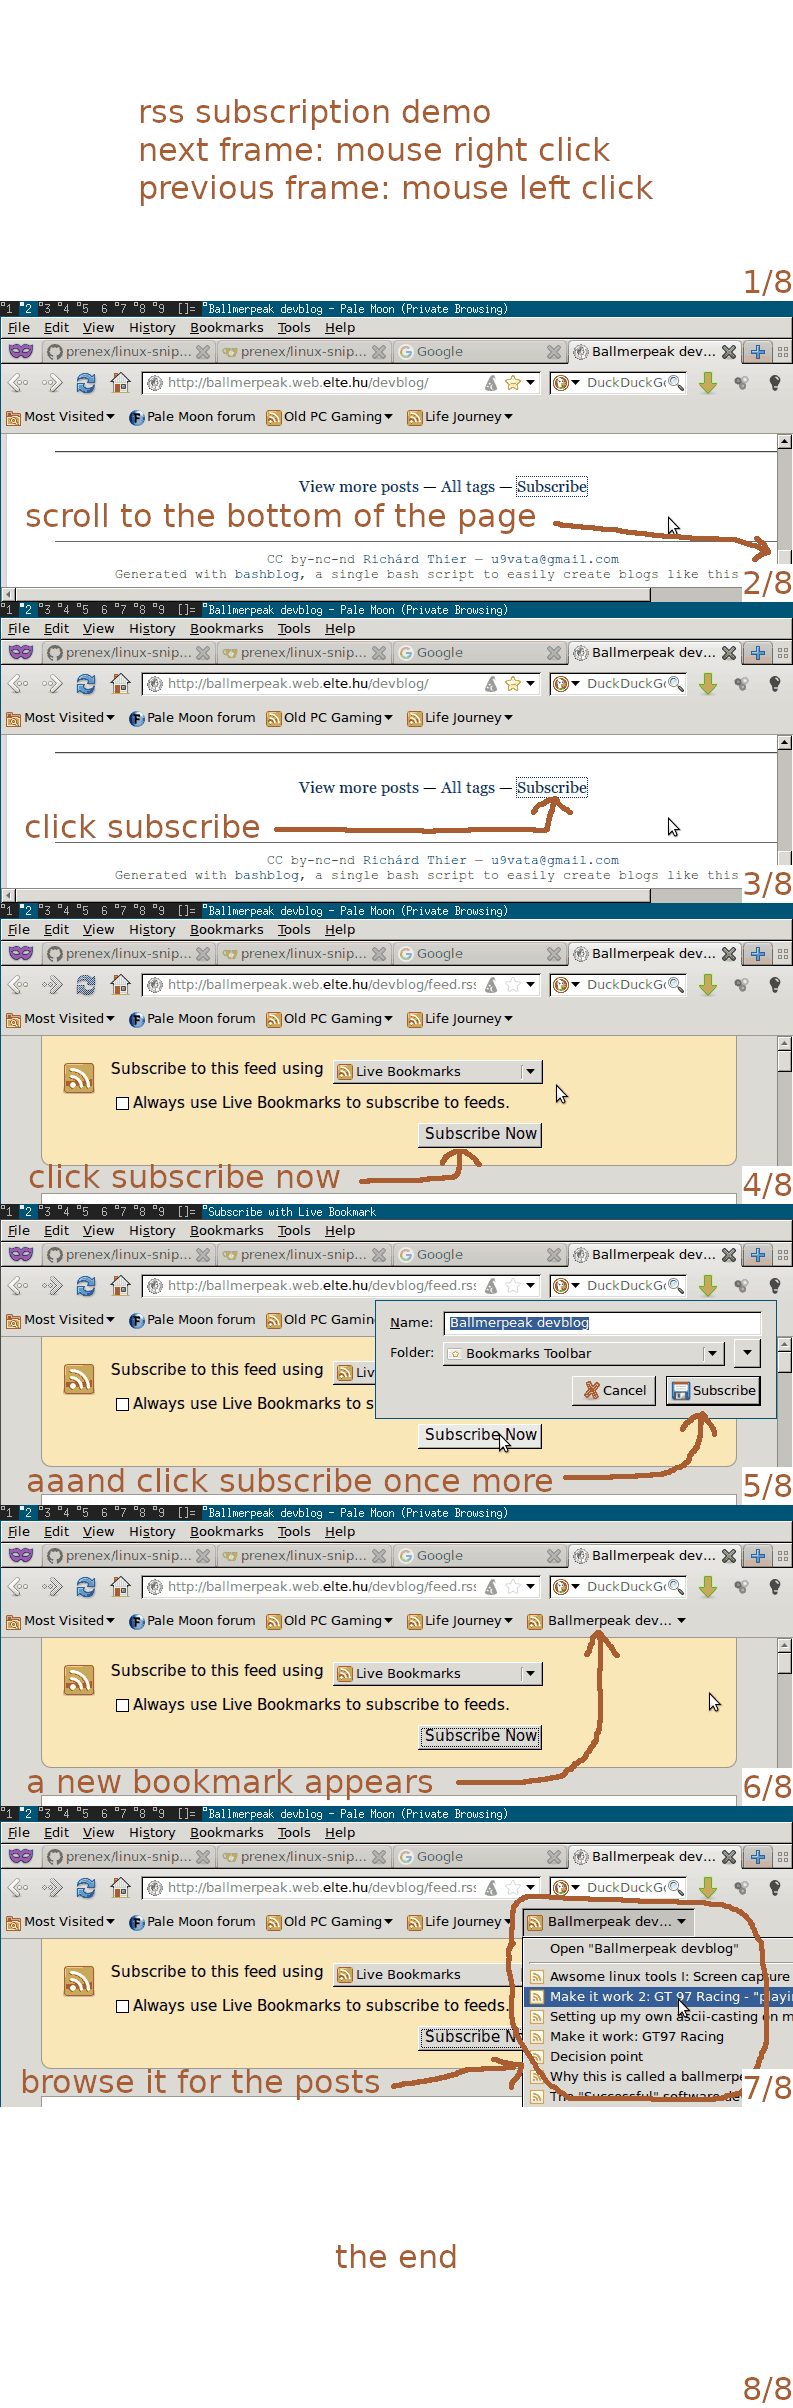
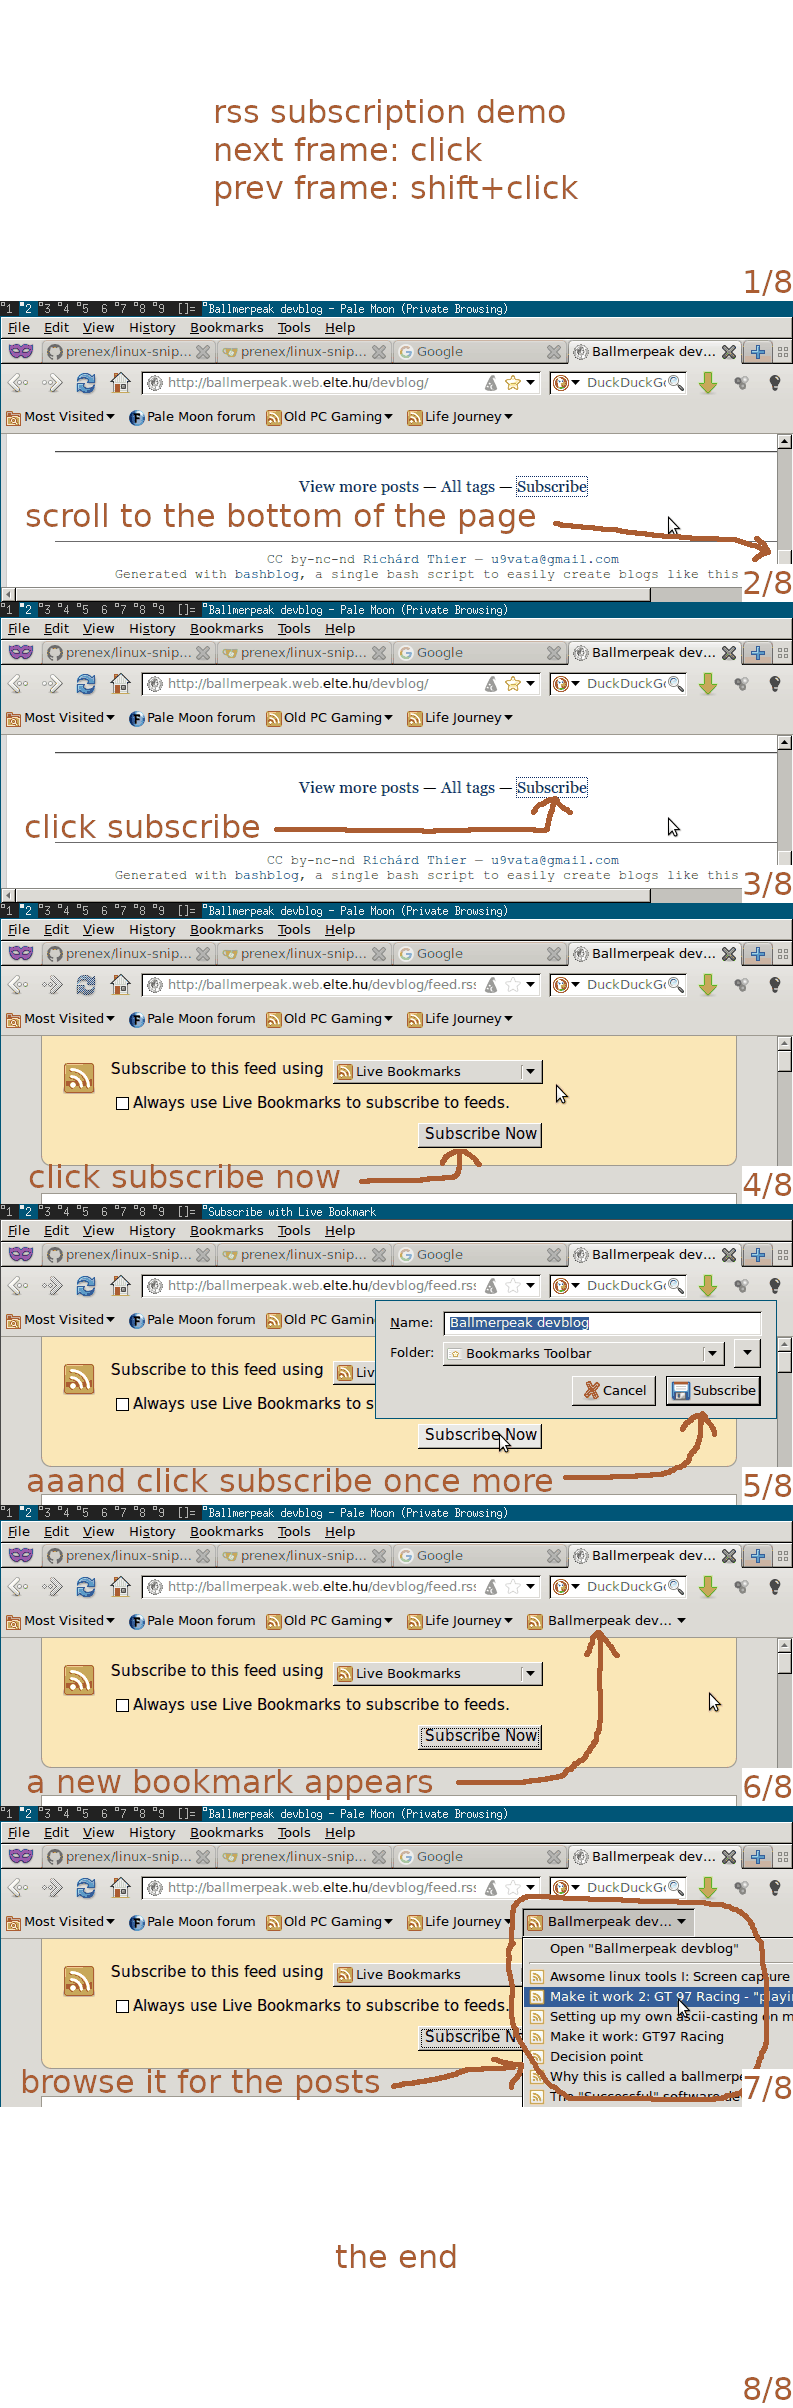
make slideshow more usable
i realized not all platforms have right mouse button so make sure simply using
the left is enough. at the same time leave the right mouse button available for
saving and inspection.

Changed region(s): [[0.1816, 0.0311, 0.8172, 0.0934]]

diff --git a/slideshow/slideshow.html b/slideshow/slideshow.html
@@ -2,6 +2,7 @@
 <html lang=en>
 <head>
 <meta charset=utf-8>
+<meta name="viewport" content="width=device-width, initial-scale=1">
 <title>slideshow</title>
 </head>
 <body>
@@ -45,23 +46,24 @@ i think this a more user friendly alternative to animations.</p>
 <script>
 var curframe = 0, frames = 8, frameheight;
 function main() {
-  frames = 8;
   framesimg.width = framesimg.width;
   frameheight = framesimg.height / frames;
   framesimg.height = frameheight;
   framesimg.style.objectFit = 'none';
   framesimg.style.objectPosition = '0px 0px';
   framesimg.addEventListener('mousedown', framesclick);
-  framesimg.addEventListener('contextmenu', function(e) {
-    if (e.button == 2) e.preventDefault();
-  });
   noscriptpara.hidden = true;
   framesimg.hidden = false;
 }
 
 function framesclick(event) {
-  if (event.button == 0 && curframe > 0) curframe--;
-  if (event.button == 2 && curframe + 1 < frames) curframe++;
+  if (event.button != 0) return;
+  if (event.shiftKey) {
+    curframe += frames - 1;
+  } else {
+    curframe++;
+  }
+  curframe %= frames;
   framesimg.style.objectPosition = `0px -${curframe * frameheight}px`;
 }
 </script>
